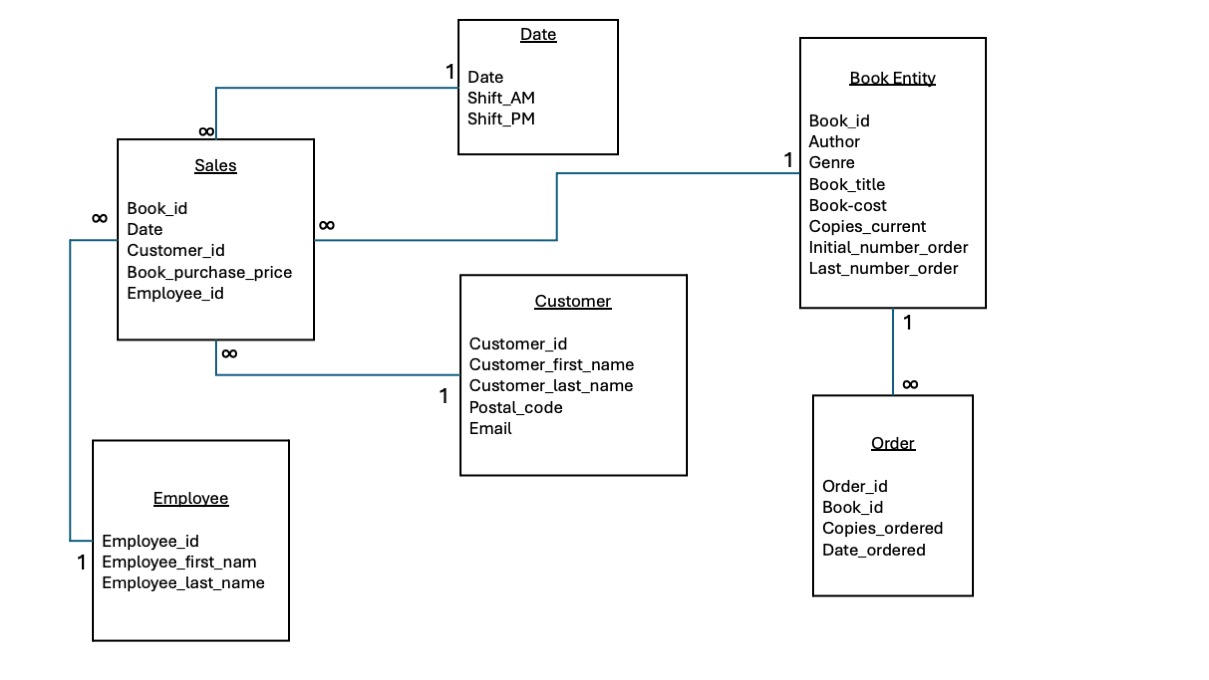
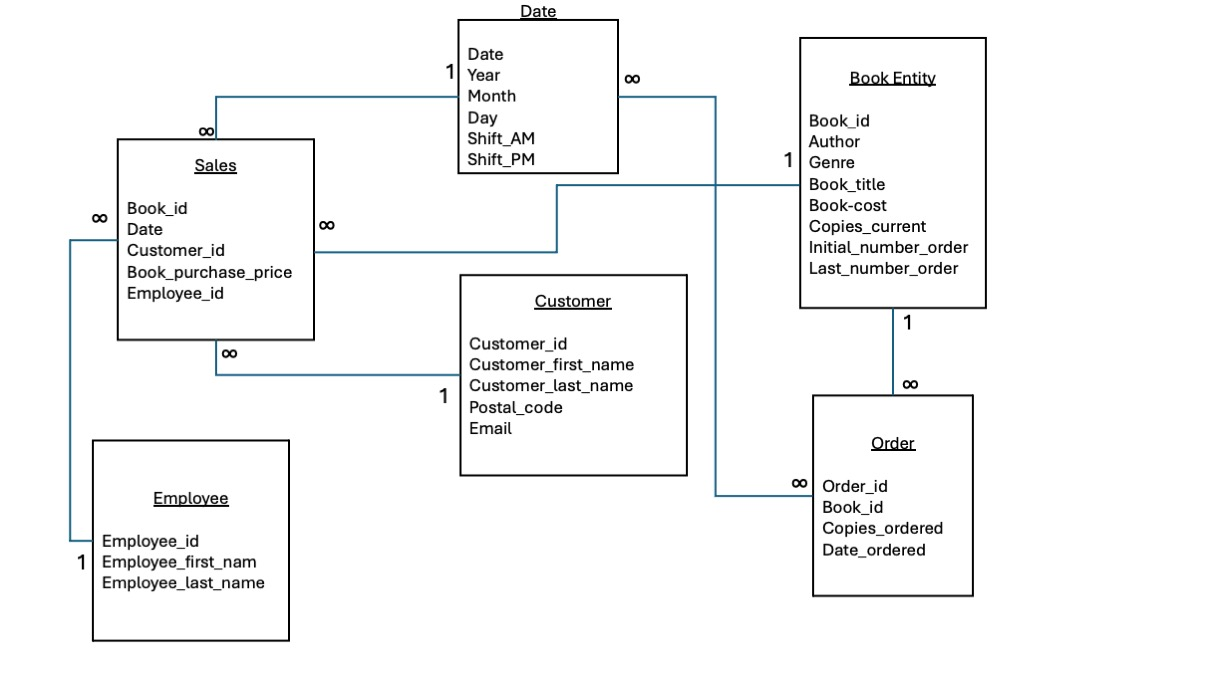
Updated assignment based on feedback

diff --git a/02_activities/assignments/Assignment2.md b/02_activities/assignments/Assignment2.md
@@ -63,7 +63,7 @@ My Response:
 
 <img src="./A2_Prompt3.jpeg" width="900">
 ```
-In both version of the CUSTOMER_ADDRESS table, there would be a column for the customer_loyalty_id and customer_addresses. In a type 1 table, when the customer's new address is added it will overwrite the previous address for the cutsomer - keeping the relationship between the customer and customer_address table as a 1 to 1 relationship. In a type 2 table, the new customer address is added as a new row. In the type 2 table, the relationship between the customer and customer_address table would be a 1 to Many relationship.
+In both version of the CUSTOMER_ADDRESS table, there would be a column for the customer_loyalty_id and customer_addresses. In a type 1 table, when the customer's new address is added it will overwrite the previous address for the cutsomer - keeping the relationship between the customer and customer_address table as a 1 to 1 relationship. In a type 2 table, the new customer address is added as a new row, as well as a column to identify whether the address is the current address or not. In the type 2 table, the relationship between the customer and customer_address table would be a 1 to Many relationship.
 ```
 
 ***
